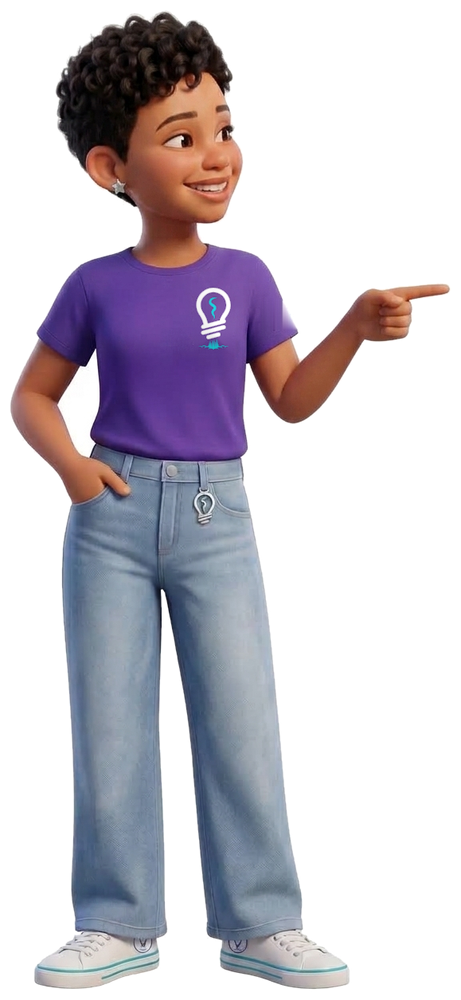
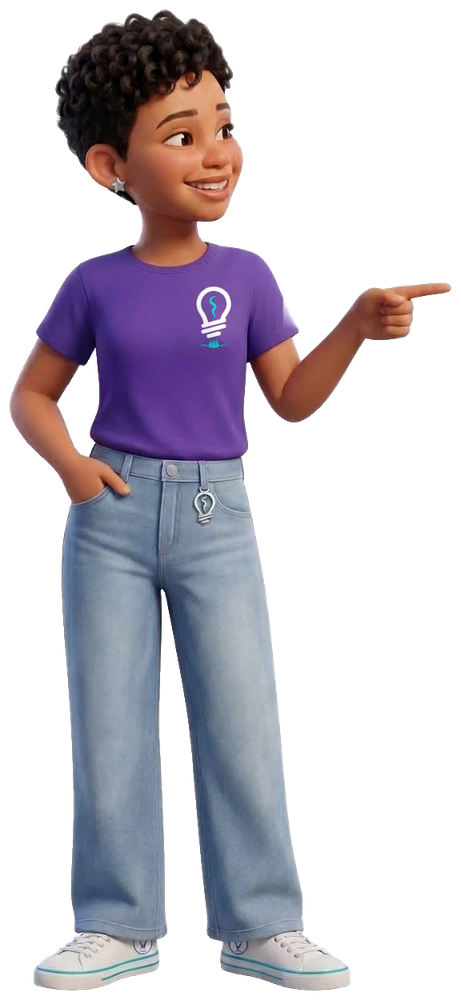
feat(site): revisão de padrão textual e de layout, FAQ, base metodológica e contato sem quebra feia
Pedido do Aldemir (07/09): imagens distorcidas, padrões textuais e de
layout, e 'ainda podemos melhorar'.

- Hero: tagline mais curta; h1 com teto de 48px para não deixar palavra
  órfã; imagens com largura seguindo só a altura (max-width:none).
- Toda seção com o mesmo padrão: kicker + título com destaque + lead
  ('Para quem é' ganhou o dele).
- Chips da base metodológica sob os princípios (CTFL/ISTQB, CARTER, ISO
  25010, ISO/IEC/IEEE 29119, OWASP API Top 10, LGPD).
- FAQ nova (#perguntas): cadastro, time de QA, preço (aponta para o
  catálogo vivo do Lumen), o que ter em mãos, demonstração.
- Contato: endereço em duas linhas limpas, três colunas iguais, CTAs
  centralizados.
- Maria Clara: recorte neural (rembg) sem a sombra do chão; medidas
  atualizadas nos <img>.

diff --git a/coming-soon/index.html b/coming-soon/index.html
@@ -119,7 +119,7 @@ main.hero { padding:56px 0 24px; }
 .hero-copy .tagline, .hero-copy .subtag { margin-left:0; margin-right:0; }
 .hero-copy .cta-row { justify-content:flex-start; margin-bottom:0; }
 .hero-figure { margin:0; text-align:center; }
-.hero-figure img { height:min(520px, 60vh); width:auto; max-width:100%; display:block; margin:0 auto; }
+.hero-figure img { height:min(520px, 60vh); width:auto; max-width:none; display:block; margin:0 auto; }
 .hero-figure figcaption { font-size:12px; color:var(--gray-light); margin-top:10px; }
 .hero-figure figcaption strong { color:var(--purple); font-weight:700; }
 .pillars { margin-top:44px; }
@@ -144,7 +144,7 @@ main.hero { padding:56px 0 24px; }
 .badge.launch .dot { background:var(--purple); animation:none; }
 
 h1 {
-  font-size:clamp(30px, 5vw, 52px); font-weight:900; line-height:1.12;
+  font-size:clamp(30px, 4.5vw, 48px); font-weight:900; line-height:1.12;
   margin-bottom:18px;
 }
 h1 .gradient {
@@ -231,6 +231,32 @@ section.block .lead {
 }
 .principle h3 { font-size:15px; font-weight:900; color:var(--purple-dark); margin-bottom:6px; }
 .principle p { font-size:13px; color:var(--gray); }
+.chips {
+  list-style:none; display:flex; flex-wrap:wrap; gap:8px; justify-content:center;
+  max-width:920px; margin:20px auto 0;
+}
+.chips li {
+  font-size:12px; font-weight:700; color:var(--purple-dark);
+  background:rgba(91,45,159,0.06); border:1px solid rgba(91,45,159,0.18);
+  padding:6px 12px; border-radius:999px;
+}
+
+/* FAQ */
+.faq { max-width:760px; margin:0 auto; }
+.faq details {
+  background:var(--white); border:1px solid var(--border); border-radius:12px;
+  padding:14px 18px; margin-bottom:10px;
+}
+.faq summary {
+  cursor:pointer; list-style:none; font-weight:700; font-size:15px; color:var(--purple-dark);
+  display:flex; justify-content:space-between; align-items:center; gap:12px;
+}
+.faq summary::-webkit-details-marker { display:none; }
+.faq summary::after { content:"+"; color:var(--gray-light); font-size:20px; line-height:1; transition:transform 0.2s; }
+.faq details[open] summary::after { transform:rotate(45deg); }
+.faq p { font-size:14px; color:var(--gray); margin-top:10px; }
+.faq a { color:var(--purple); font-weight:700; text-decoration:none; }
+.faq a:hover { text-decoration:underline; }
 
 /* PRODUTO */
 .shots {
@@ -282,7 +308,7 @@ section.block .lead {
   gap:24px; align-items:end; justify-content:center; max-width:920px; margin:0 auto;
 }
 .avise-figure { margin:0; text-align:right; }
-.avise-figure img { height:360px; width:auto; max-width:100%; display:inline-block; }
+.avise-figure img { height:360px; width:auto; max-width:none; display:inline-block; }
 .form-card {
   background:var(--white);
   border:1px solid var(--border);
@@ -356,13 +382,14 @@ button[type="submit"]:disabled { opacity:0.6; cursor:wait; }
 .company {
   background:var(--off-white); border:1px solid var(--border); border-radius:14px;
   padding:24px 28px;
-  display:grid; grid-template-columns:repeat(auto-fit, minmax(200px, 1fr)); gap:20px;
+  display:grid; grid-template-columns:repeat(3, minmax(0, 1fr)); gap:20px;
 }
+@media (max-width:640px) { .company { grid-template-columns:1fr; } }
 .company h3 { font-size:13px; font-weight:900; color:var(--purple-dark); text-transform:uppercase; letter-spacing:0.06em; margin-bottom:6px; }
 .company p { font-size:14px; color:var(--gray); }
 .company a { color:var(--purple); text-decoration:none; font-weight:700; }
 .company a:hover { text-decoration:underline; }
-.contact-cta { margin-top:16px; display:flex; gap:12px; flex-wrap:wrap; }
+.contact-cta { margin-top:16px; display:flex; gap:12px; flex-wrap:wrap; justify-content:center; }
 
 footer.bottom {
   margin-top:auto; padding-top:48px;
@@ -425,12 +452,10 @@ footer.bottom a:hover { color:var(--purple); }
     <h1>O <span class="gradient">Lumen</span> chega em 14 de setembro.<br>E você já pode <span class="nowrap">conhecê-lo</span>.</h1>
 
     <p class="tagline">
-      Agentes de IA que leem a sua documentação, o vídeo de passagem de conhecimento ou o
-      contrato da API e devolvem requisitos, cenários e casos de teste prontos. Depois,
-      executam os testes contra a aplicação, com evidência de tela passo a passo. E uma
-      gestão de testes completa para conduzir o ciclo inteiro. O Lumen <strong>agrega</strong> ao
-      trabalho de quem faz qualidade: apoia QAs profissionais e cobre empresas que ainda não
-      têm time de QA.
+      Agentes de IA que transformam a sua documentação, o vídeo de passagem de conhecimento
+      ou o contrato da API em requisitos, cenários e casos de teste, e executam os testes
+      com evidência passo a passo. Com uma gestão de testes completa para conduzir o ciclo
+      inteiro. O Lumen <strong>agrega</strong> ao trabalho de quem faz qualidade.
     </p>
     <p class="subtag">
       A plataforma e os planos já estão no ar para você navegar. O cadastro abre no
@@ -447,7 +472,7 @@ footer.bottom a:hover { color:var(--purple); }
     <figure class="hero-figure">
       <picture>
         <source srcset="/maria-clara-boas-vindas.webp" type="image/webp">
-        <img src="/maria-clara-boas-vindas.png" alt="Maria Clara, do time LampUP, acenando" width="543" height="1000" fetchpriority="high">
+        <img src="/maria-clara-boas-vindas.png" alt="Maria Clara, do time LampUP, acenando" width="397" height="1000" fetchpriority="high">
       </picture>
       <figcaption><strong>Maria Clara</strong>, do time LampUP</figcaption>
     </figure>
@@ -542,6 +567,9 @@ footer.bottom a:hover { color:var(--purple); }
         <p>Recurso só aparece no produto quando funciona. O que não está pronto aparece como “em breve”, nunca como fachada.</p>
       </div>
     </div>
+    <ul class="chips" aria-label="Base metodológica">
+      <li>CTFL / ISTQB</li><li>Checklist CARTER</li><li>ISO 25010</li><li>ISO/IEC/IEEE 29119</li><li>OWASP API Top 10</li><li>LGPD</li>
+    </ul>
   </section>
 
   <section class="block" id="lumen">
@@ -582,7 +610,8 @@ footer.bottom a:hover { color:var(--purple); }
   </section>
 
   <section class="block" id="para-quem">
-    <h2>Para quem é</h2>
+    <span class="kicker">Dois públicos</span>
+    <h2>Para quem é o <span class="accent">Lumen</span></h2>
     <p class="lead">Dois públicos, uma plataforma. Em nenhum dos dois o Lumen substitui pessoas: ele amplia o alcance de quem cuida da qualidade.</p>
     <div class="publics">
       <article class="public-card">
@@ -651,6 +680,34 @@ footer.bottom a:hover { color:var(--purple); }
     </div>
   </section>
 
+  <section class="block" id="perguntas">
+    <span class="kicker">Perguntas frequentes</span>
+    <h2>O que costumam nos <span class="accent">perguntar</span></h2>
+    <p class="lead">Respostas curtas. O resto a gente mostra rodando.</p>
+    <div class="faq">
+      <details>
+        <summary>Quando o cadastro abre?</summary>
+        <p>No lançamento oficial, em 14 de setembro de 2026. Até lá a plataforma e os planos ficam no ar para você conhecer, e o formulário acima avisa você na abertura.</p>
+      </details>
+      <details>
+        <summary>Preciso ter time de QA para usar o Lumen?</summary>
+        <p>Não. Quem tem time ganha velocidade no que é repetitivo; quem não tem executa o ciclo de testes com os agentes e a gestão de testes da plataforma. Nos dois casos, quem revisa e aprova o que a IA produz é gente.</p>
+      </details>
+      <details>
+        <summary>Quanto custa?</summary>
+        <p>Você paga pelo que consome, em tokens, do plano Free ao PME Premium, e Enterprise sob medida. A tabela vigente fica na <a href="https://lumen.lampup.com.br/planos">página de planos do Lumen</a>, sempre atualizada.</p>
+      </details>
+      <details>
+        <summary>O que eu preciso ter em mãos para começar?</summary>
+        <p>O que você já tem: um documento de requisitos, uma exportação do Jira ou do TestRail, o vídeo de uma demonstração, o contrato da API ou só um briefing. Documentação bagunçada é exatamente o caso de uso.</p>
+      </details>
+      <details>
+        <summary>Como é a demonstração?</summary>
+        <p>Trinta minutos, com a sua documentação. É quando o resultado fica evidente. Peça pelo e-mail abaixo ou pelo <a href="https://lumen.lampup.com.br/enterprise">Lumen Enterprise</a>, se o seu cenário for corporativo.</p>
+      </details>
+    </div>
+  </section>
+
   <section class="block" id="contato">
     <span class="kicker">A empresa</span>
     <h2>Fale com a <span class="accent">gente</span></h2>
@@ -664,7 +721,7 @@ footer.bottom a:hover { color:var(--purple); }
           </div>
           <div>
             <h3>Endereço</h3>
-            <p>Al. Rio Negro, 1033 — Alphaville Comercial<br>Barueri — SP</p>
+            <p>Al. Rio Negro, 1033<br>Alphaville Comercial, Barueri, SP</p>
           </div>
           <div>
             <h3>Contato</h3>
@@ -679,7 +736,7 @@ footer.bottom a:hover { color:var(--purple); }
       <figure class="contact-figure" aria-hidden="true">
         <picture>
           <source srcset="/maria-clara-positivo.webp" type="image/webp">
-          <img src="/maria-clara-positivo.png" alt="" width="372" height="1000" loading="lazy">
+          <img src="/maria-clara-positivo.png" alt="" width="370" height="1000" loading="lazy">
         </picture>
       </figure>
     </div>

diff --git a/README.md b/README.md
@@ -10,7 +10,7 @@ Site público da LampUP IT em `lampup.com.br`.
 |---|---|---|
 | v0.1 | Coming soon page (captura de leads) | Substituída em 07/09/2026 |
 | v0.2 | Página oficial: Lumen no ar, cadastro fechado (lead "avise-me"), seção A empresa | Substituída em 07/09/2026 (mesmo dia) |
-| **v0.3** | Página oficial com a história da LampUP (sem expor os sócios), narrativa "lançamento 14/09, mas o Lumen já pode ser visitado", duas capturas reais do produto, Maria Clara (3 poses), âncora `#contato` (usada pelo Lumen Enterprise) | Em produção |
+| **v0.3** | Página oficial com a história da LampUP (sem expor os sócios), narrativa "lançamento 14/09, mas o Lumen já pode ser visitado", duas capturas reais do produto, Maria Clara (3 poses, recorte neural sem sombra), FAQ, chips da base metodológica, âncora `#contato` (usada pelo Lumen Enterprise) | Em produção |
 | v0.3 | `index-launch.html` — versão com "Começar grátis", publicar só quando o cadastro abrir (`SIGNUP_OPEN=true` no Lumen) | Pronta, aguardando abertura do cadastro |
 | v1.0 | Modelo 2 — Clean Tech (landing completa) | Em refinamento |
 
@@ -21,7 +21,7 @@ site-institucional/
 ├── coming-soon/                 ← Versão atual em produção (raiz do Vercel)
 │   ├── index.html               — Página oficial (07/09): Lumen no ar + lead "avise-me" + A empresa
 │   ├── index-launch.html        — Versão do dia D com "Começar grátis" (cadastro aberto)
-│   ├── maria-clara-*.png/.webp  — Mascote (recortes das artes finais em MARIA CLARA E CLARINHA/revisadas/)
+│   ├── maria-clara-*.png/.webp  — Mascote (artes finais de MARIA CLARA E CLARINHA/revisadas/, fundo removido com rembg/isnet — floodfill deixa a sombra do chão)
 │   ├── leads.js                 — Captura à prova de falha (3 camadas)
 │   ├── vercel.json              — Headers de segurança + cache
 │   ├── robots.txt, sitemap.xml
